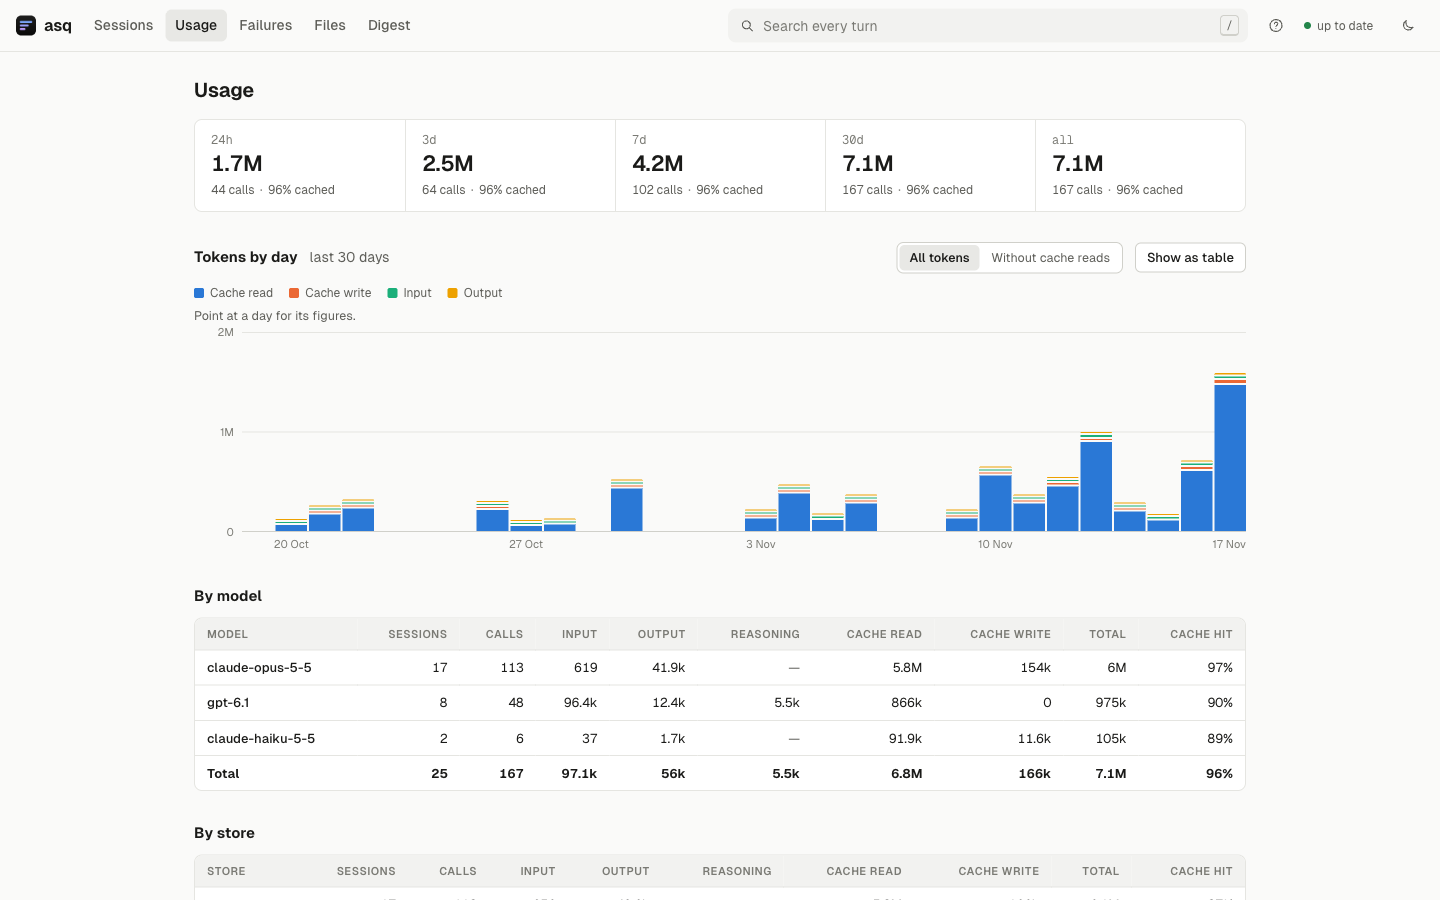
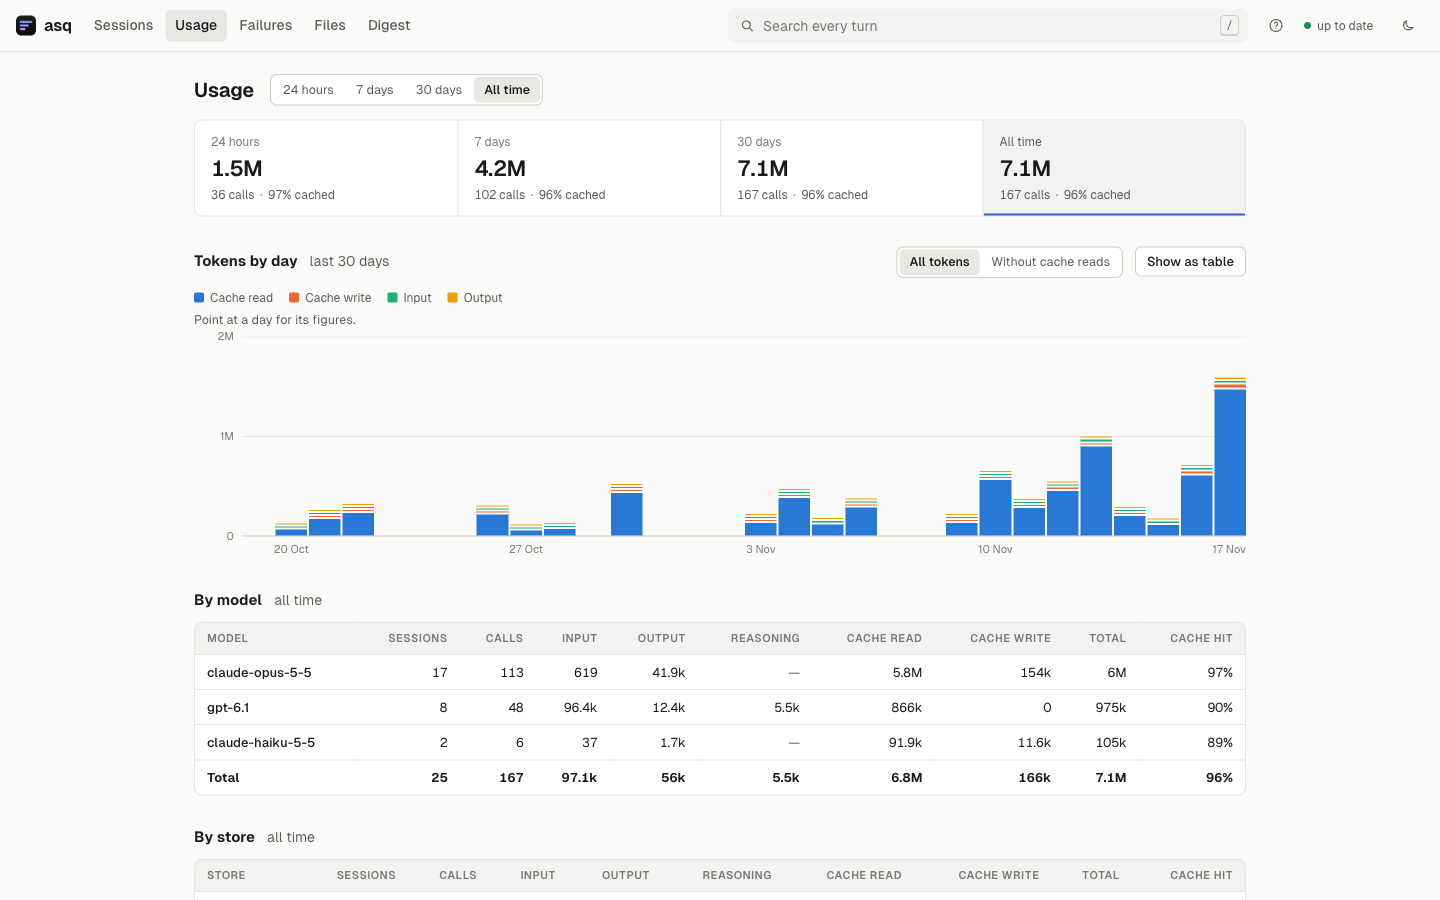
web: one set of time windows, the same in every view
Each view had a list of its own. Sessions offered All time, Today, 7
days and 30 days — Today a calendar day where everything else rolls;
Failures, Files and Digest 24 hours, 7 days and 30 days, with no all
time; Usage showed its windows by their keys (24h, 3d …) beside a chart
of the last 30 days, over tables that covered all time and did not say
so.

web/js/windows.js is the one list: 24 hours, 7 days, 30 days, All time,
in that order and those words, rolling. Every view offers all four.
Usage takes the window for its tables as the other reports do, names it
beside each, marks its card, and labels the cards in words; its chart
stays the last 30 days. A window empty of anything no longer suggests a
longer one when there is none.

The screenshots are retaken.

diff --git a/web/js/views/usage.js b/web/js/views/usage.js
@@ -1,28 +1,35 @@
-// What the model calls consumed: rolling windows, the last thirty days, and where it went.
+// What the model calls consumed: rolling windows, the last thirty days, and where it went
+// in the window chosen.
 
-import { h, mark, skeleton, errorBox, stale } from '../dom.js';
+import { h, mark, skeleton, errorBox, stale, choices } from '../dom.js';
 import { api, qs, last } from '../api.js';
 import { coalesce } from '../live.js';
 import * as f from '../format.js';
+import { WINDOWS, windowOf, label, span } from '../windows.js';
 
 // Stacked bottom to top in this order; the colours are the chart palette's first four
 const PARTS = [['cacheRead', 'Cache read'], ['cacheWrite', 'Cache write'], ['input', 'Input'], ['output', 'Output']];
-const WINDOWS = { '24h': 'Last 24 hours', '3d': 'Last 3 days', '7d': 'Last 7 days', '30d': 'Last 30 days', all: 'All time' };
+// The window the breakdowns cover: all of it unless one is chosen
+const windowIn = (query) => windowOf(query, 'all');
 
 // first is what the view asks for when it opens, so that it can be asked for ahead.
-export const first = () => '/api/usage';
+export const first = (query) => '/api/usage' + qs({ since: windowIn(query) });
 
 export function mount(main, route, ctx) {
   document.title = 'Usage · asq';
+  const since = windowIn(route.query);
   // What it showed last time is shown at once; the fresh report replaces it when it comes
-  const state = { withCache: true, table: false, report: last(first()) };
+  const state = { withCache: true, table: false, report: last(first(route.query)) };
   const body = h('div', { class: 'page-body' }, state.report ? null : skeleton(6, 'line'));
   const note = stale();
-  main.append(h('div', { class: 'page' }, h('header', { class: 'page-head' }, h('h1', { tabIndex: -1 }, 'Usage')), note.el, body));
+  main.append(h('div', { class: 'page' },
+    h('header', { class: 'page-head' }, h('h1', { tabIndex: -1 }, 'Usage'),
+      choices('Window', WINDOWS.map(([k, name]) => ['/usage' + qs({ since: k === 'all' ? '' : k }), name, k === since]))),
+    note.el, body));
 
   async function load() {
     try {
-      const report = await api(first(), { signal: ctx.signal, keep: true });
+      const report = await api(first(route.query), { signal: ctx.signal, keep: true });
       note.say();
       if (report === state.report) return; // nothing changed: what is drawn stays as it is, under the pointer
       state.report = report;
@@ -38,15 +45,17 @@ export function mount(main, route, ctx) {
   function render() {
     const r = state.report;
     body.replaceChildren(
-      h('dl', { class: 'windows' }, r.windows.map((w) => h('div', { class: 'window' },
-        h('dt', null, w.key, h('span', { class: 'sr' }, ' — ' + WINDOWS[w.key])),
+      // Every window at once, whichever is chosen: what each consumed, the chosen one marked
+      // as the one the tables below add up to
+      h('dl', { class: 'windows' }, r.windows.map((w) => h('div', { class: w.key === since ? 'window on' : 'window', 'aria-current': w.key === since ? 'true' : null },
+        h('dt', null, label(w.key)),
         h('dd', { class: 'big', title: f.num(w.total) + ' tokens' }, f.tokens(w.total)),
         h('dd', { class: 'dots dim' }, h('span', { title: f.num(w.calls) + ' model calls' }, f.plural(w.calls, 'call')),
           w.total > 0 && h('span', null, f.pct(w.cacheHit) + ' cached'))))),
       chart(r.byDay),
-      section('By model', table(r.byModel, r.total, 'Model', (k) => k || '(not recorded)')),
-      section('By store', table(r.bySource, r.total, 'Store', (k) => h('span', { class: 'store' }, mark(k), k))),
-      section('By project', table(r.byProject, r.total, 'Project', (k) => (k ? h('a', { href: '/' + qs({ project: k }), title: k }, f.shortPath(k)) : '(no directory)'))),
+      section('By model', span(since), table(r.byModel, r.total, 'Model', (k) => k || '(not recorded)')),
+      section('By store', span(since), table(r.bySource, r.total, 'Store', (k) => h('span', { class: 'store' }, mark(k), k))),
+      section('By project', span(since), table(r.byProject, r.total, 'Project', (k) => (k ? h('a', { href: '/' + qs({ project: k }), title: k }, f.shortPath(k)) : '(no directory)'))),
     );
   }
 
@@ -73,7 +82,7 @@ export function mount(main, route, ctx) {
     const mode = (withCache, label) => h('button', { type: 'button', class: 'seg-btn', 'aria-pressed': String(state.withCache === withCache), onclick() { state.withCache = withCache; render(); } }, label);
     const tableBtn = h('button', { type: 'button', class: 'btn', 'aria-pressed': String(state.table), onclick() { state.table = !state.table; render(); } }, state.table ? 'Hide table' : 'Show as table');
     return h('section', { class: 'chart' },
-      h('header', { class: 'section-head' }, h('h2', null, 'Tokens by day'), h('span', { class: 'dim' }, 'last 30 days'),
+      h('header', { class: 'section-head' }, h('h2', null, 'Tokens by day'), h('span', { class: 'dim' }, span('30d')),
         h('div', { class: 'seg-group', role: 'group', 'aria-label': 'What the bars count' }, mode(true, 'All tokens'), mode(false, 'Without cache reads')), tableBtn),
       h('ul', { class: 'legend' }, parts.map(([k, label]) => h('li', null, h('span', { class: 'swatch', dataset: { part: k } }), label))),
       readout,
@@ -111,7 +120,7 @@ function niceMax(v) {
   return [1, 2, 2.5, 5, 10].map((m) => m * p).find((x) => x >= v);
 }
 
-const section = (title, content) => h('section', null, h('header', { class: 'section-head' }, h('h2', null, title)), content);
+const section = (title, when, content) => h('section', null, h('header', { class: 'section-head' }, h('h2', null, title), h('span', { class: 'dim' }, when)), content);
 
 function table(rows, total, keyLabel, keyCell) {
   const n = (v) => h('td', { class: 'n', title: f.num(v) }, f.tokens(v));

diff --git a/web/js/views/files.js b/web/js/views/files.js
@@ -6,11 +6,11 @@ import { api, qs, sessionHref, isAbort, last } from '../api.js';
 import { coalesce } from '../live.js';
 import { go } from '../router.js';
 import * as f from '../format.js';
+import { WINDOWS, windowOf as windowIn, within, longer } from '../windows.js';
 
-const WINDOWS = [['24h', '24 hours'], ['7d', '7 days'], ['30d', '30 days']];
 const PAGE = 50;
 
-const windowOf = (query) => (WINDOWS.some(([k]) => k === query.get('since')) ? query.get('since') : '7d');
+const windowOf = (query) => windowIn(query, '7d');
 const readToo = (query) => query.get('read') === '1';
 const pageAt = (query, offset) =>
   '/api/files' + qs({ since: windowOf(query), path: query.get('path') || '', changed: !readToo(query), limit: PAGE, offset });
@@ -45,7 +45,6 @@ export function mount(main, route, ctx) {
   const more = h('div', { class: 'more-row' });
   const body = h('div', { class: 'page-body' }, skeleton(6, 'row'));
   const note = stale();
-  const windowName = WINDOWS.find(([k]) => k === since)[1];
   const input = h('input', { type: 'search', name: 'path', value: path, placeholder: 'part of a path: auth.go, src/api/', 'aria-label': 'Files whose path contains', autocomplete: 'off', spellcheck: false });
   const form = h('form', { class: 'file-filter', role: 'search' }, input);
   form.addEventListener('submit', (e) => {
@@ -54,7 +53,7 @@ export function mount(main, route, ctx) {
   });
   main.append(h('div', { class: 'page' },
     h('header', { class: 'page-head' }, h('h1', { tabIndex: -1 }, 'Files'),
-      choices('Window', WINDOWS.map(([k, label]) => [href({ since: k }), label, k === since]))),
+      choices('Window', WINDOWS.map(([k, name]) => [href({ since: k }), name, k === since]))),
     form,
     h('nav', { class: 'chips', 'aria-label': 'Which turns' },
       h('a', { class: 'chip', href: href({ read: false }), 'aria-current': read ? null : 'true' }, 'Changed'),
@@ -68,9 +67,9 @@ export function mount(main, route, ctx) {
     v.end = r.files.length < PAGE;
     // A row is a file and a turn that touched it, so a file two turns changed is counted
     // twice, as the digest counts files changed
-    summary.textContent = `${f.plural(r.total, 'file')}${path ? ` whose path contains “${path}”` : ''} ${read ? 'read or changed' : 'changed'} in the last ${windowName}.`;
+    summary.textContent = `${f.plural(r.total, 'file')}${path ? ` whose path contains “${path}”` : ''} ${read ? 'read or changed' : 'changed'}${within(since)}.`;
     list.replaceChildren(...v.items.map(row));
-    if (!v.items.length) list.replaceChildren(h('li', null, empty(path ? `No file whose path contains “${path}” in the last ${windowName}.` : `No files ${read ? 'read or changed' : 'changed'} in the last ${windowName}.`, 'Try a longer window.')));
+    if (!v.items.length) list.replaceChildren(h('li', null, empty(path ? `No file whose path contains “${path}”${within(since)}.` : `No files ${read ? 'read or changed' : 'changed'}${within(since)}.`, longer(since))));
     if (!body.contains(list)) body.replaceChildren(list, more);
     more.replaceChildren(v.end ? '' : h('button', { type: 'button', class: 'btn', onclick: () => load(false) }, 'Load more'));
   }

diff --git a/web/js/views/failures.js b/web/js/views/failures.js
@@ -4,11 +4,11 @@ import { h, time, skeleton, errorBox, empty, choices, fill, stale } from '../dom
 import { api, qs, sessionHref, isAbort, last } from '../api.js';
 import { coalesce } from '../live.js';
 import * as f from '../format.js';
+import { WINDOWS, windowOf as windowIn, within, longer } from '../windows.js';
 
-const WINDOWS = [['24h', '24 hours'], ['7d', '7 days'], ['30d', '30 days']];
 const PAGE = 50;
 
-const windowOf = (query) => (WINDOWS.some(([k]) => k === query.get('since')) ? query.get('since') : '7d');
+const windowOf = (query) => windowIn(query, '7d');
 const pageAt = (query, offset) => '/api/failures' + qs({ since: windowOf(query), tool: query.get('tool') || '', limit: PAGE, offset });
 
 // first is what the view asks for when it opens, so that it can be asked for ahead.
@@ -26,10 +26,9 @@ export function mount(main, route, ctx) {
   const more = h('div', { class: 'more-row' });
   const body = h('div', { class: 'page-body' }, skeleton(6, 'row'));
   const note = stale();
-  const windowName = WINDOWS.find(([k]) => k === since)[1];
   main.append(h('div', { class: 'page' },
     h('header', { class: 'page-head' }, h('h1', { tabIndex: -1 }, 'Failures'),
-      choices('Window', WINDOWS.map(([k, label]) => [href({ since: k }), label, k === since]))),
+      choices('Window', WINDOWS.map(([k, name]) => [href({ since: k }), name, k === since]))),
     note.el, summary, chips, body));
 
   function show(r, reset) {
@@ -37,13 +36,13 @@ export function mount(main, route, ctx) {
     v.items = reset ? r.failures : v.items.concat(r.failures);
     v.total = r.total;
     v.end = r.failures.length < PAGE;
-    summary.textContent = `${f.plural(r.total, 'failed call')} in the last ${windowName}${tool ? ` of ${tool}` : ''}.`;
+    summary.textContent = `${f.plural(r.total, 'failed call')}${tool ? ` of ${tool}` : ''}${within(since)}.`;
     if (reset) fill(chips,
       h('a', { class: 'chip', href: href({ tool: '' }), 'aria-current': tool ? null : 'true' }, 'All tools'),
       r.byTool.map((t) => h('a', { class: 'chip', href: href({ tool: t.tool === tool ? '' : t.tool }), 'aria-current': t.tool === tool ? 'true' : null },
         h('span', { class: 'mono' }, t.tool), h('span', { class: 'n' }, f.num(t.count)))));
     list.replaceChildren(...v.items.map(row));
-    if (!v.items.length) list.replaceChildren(h('li', null, empty(`No failed tool calls in the last ${windowName}.`, tool ? 'Try all tools, or a longer window.' : 'Try a longer window.')));
+    if (!v.items.length) list.replaceChildren(h('li', null, empty(`No failed tool calls${tool ? ` of ${tool}` : ''}${within(since)}.`, tool ? (since === 'all' ? 'Try all tools.' : 'Try all tools, or a longer window.') : longer(since))));
     if (!body.contains(list)) body.replaceChildren(list, more);
     more.replaceChildren(v.end ? '' : h('button', { type: 'button', class: 'btn', onclick: () => load(false) }, 'Load more'));
   }

diff --git a/web/js/views/digest.js b/web/js/views/digest.js
@@ -4,11 +4,11 @@ import { h, mark, skeleton, errorBox, empty, choices, stale } from '../dom.js';
 import { api, qs, isAbort, last } from '../api.js';
 import { coalesce } from '../live.js';
 import * as f from '../format.js';
+import { WINDOWS, windowOf as windowIn, within, longer } from '../windows.js';
 
-const WINDOWS = [['24h', '24 hours'], ['7d', '7 days'], ['30d', '30 days']];
 const KINDS = ['code', 'test', 'docs', 'config'];
 
-const windowOf = (query) => (WINDOWS.some(([k]) => k === query.get('since')) ? query.get('since') : '7d');
+const windowOf = (query) => windowIn(query, '7d');
 
 // first is what the view asks for when it opens, so that it can be asked for ahead.
 export const first = (query) => '/api/digest' + qs({ since: windowOf(query) });
@@ -23,7 +23,7 @@ export function mount(main, route, ctx) {
   const note = stale();
   main.append(h('div', { class: 'page' },
     h('header', { class: 'page-head' }, h('h1', { tabIndex: -1 }, 'Digest'),
-      choices('Window', WINDOWS.map(([k, label]) => ['/digest' + qs({ since: k }), label, k === since]))),
+      choices('Window', WINDOWS.map(([k, name]) => ['/digest' + qs({ since: k }), name, k === since]))),
     note.el, summary, body));
 
   function show(r) {
@@ -39,7 +39,7 @@ export function mount(main, route, ctx) {
       h('span', null, `${f.plural(KINDS.reduce((n, k) => n + (t.changed?.[k] || 0), 0), 'file')} changed`)));
     body.replaceChildren(r.projects.length
       ? h('ol', { class: 'digest' }, r.projects.map(project))
-      : empty(`Nothing was asked in the last ${WINDOWS.find(([k]) => k === since)[1]}.`, 'Try a longer window.'));
+      : empty(`Nothing was asked${within(since)}.`, longer(since)));
   }
 
   async function load() {

diff --git a/web/js/views/sessions.js b/web/js/views/sessions.js
@@ -7,10 +7,12 @@ import { go, savedY } from '../router.js';
 import { health, coalesce, onStatus, status } from '../live.js';
 import { needles, highlight } from '../md.js';
 import * as f from '../format.js';
+import { WINDOWS } from '../windows.js';
 
 const PAGE = 50;
 const HITS = 20;
-const WHEN = [['', 'All time'], ['today', 'Today'], ['7d', '7 days'], ['30d', '30 days']];
+// The windows every view offers (see windows.js); all time is no filter at all
+const WHEN = WINDOWS.map(([k, name]) => [k === 'all' ? '' : k, name]);
 const TOP_PROJECTS = 8;
 
 // Each list as it was left, by its address. Coming back to one — by Back from a session,
@@ -93,7 +95,8 @@ export function mount(main, route, ctx) {
     projectsP ||= api('/api/projects').then((r) => r.projects).catch(() => { projectsP = null; return []; });
     const projects = await projectsP;
     const option = (key, value, label, extra) => {
-      const on = (q.get(key) || '') === value;
+      const now = q.get(key) || '';
+      const on = (key === 'since' && now === 'all' ? '' : now) === value; // since=all is all time too
       return h('li', null, h('a', { href: hrefWith(v.route, { [key]: on && value ? '' : value }), class: 'opt', 'aria-current': on ? 'true' : null, title: extra?.title }, label, extra?.n != null && h('span', { class: 'n' }, f.num(extra.n))));
     };
     const flag = (key, label) => {

diff --git a/web/js/windows.js b/web/js/windows.js
@@ -1,0 +1,22 @@
+// The windows of time every view offers, and how each is said: one list, so that one
+// view's "7 days" is every other's, in the same words and the same order. They roll —
+// the last 24 hours, not today — as a calendar window reads differently depending on
+// when it is asked. The key is what the API takes as since.
+
+export const WINDOWS = [['24h', '24 hours'], ['7d', '7 days'], ['30d', '30 days'], ['all', 'All time']];
+
+// windowOf is the window a query names, or fallback when it names none of these.
+export const windowOf = (query, fallback) => (WINDOWS.some(([k]) => k === query.get('since')) ? query.get('since') : fallback);
+
+// label is the window as a choice shows it: "7 days", "All time".
+export const label = (key) => WINDOWS.find(([k]) => k === key)?.[1] || key;
+
+// span is the window beside a heading: "last 7 days", "all time".
+export const span = (key) => (key === 'all' ? 'all time' : `last ${label(key)}`);
+
+// within ends a sentence about what happened in the window: "in the last 7 days", and for
+// all time nothing, as "12 files changed" says it already.
+export const within = (key) => (key === 'all' ? '' : ` in the last ${label(key)}`);
+
+// longer is what an empty window suggests: a longer one, while there is one.
+export const longer = (key) => (key === 'all' ? '' : 'Try a longer window.');

diff --git a/web/app.css b/web/app.css
@@ -396,10 +396,12 @@ kbd { padding: 0 5px; border: 1px solid var(--line-strong); border-bottom-width:
 .section-head h2 { font-size: 15px; font-weight: 650; }
 .section-head .seg-group { margin-left: auto; }
 .summary { margin-bottom: 12px; color: var(--muted); }
-.windows { display: grid; grid-template-columns: repeat(5, minmax(0, 1fr)); background: var(--surface); border: 1px solid var(--line); border-radius: 8px; }
+.windows { display: grid; grid-template-columns: repeat(4, minmax(0, 1fr)); background: var(--surface); border: 1px solid var(--line); border-radius: 8px; }
 .window { padding: 12px 16px; }
 .window + .window { border-left: 1px solid var(--line); }
-.window dt { color: var(--faint); font: 12px var(--mono); }
+.window dt { color: var(--faint); font-size: 12px; }
+.window.on { background: var(--sunk); box-shadow: inset 0 -2px 0 var(--accent); }
+.window.on dt { color: var(--muted); }
 .window .big { font-size: 22px; font-weight: 600; letter-spacing: -.01em; }
 .window .dots { font-size: 12px; }
 .legend { display: flex; flex-wrap: wrap; gap: 4px 16px; margin: 0 0 4px; padding: 0; list-style: none; color: var(--muted); font-size: 12px; }

diff --git a/web/js/dom.js b/web/js/dom.js
@@ -193,7 +193,7 @@ export function stale() {
 }
 
 export const empty = (title, ...hints) =>
-  h('div', { class: 'empty' }, h('p', { class: 'empty-title' }, title), hints.map((x) => h('p', null, x)));
+  h('div', { class: 'empty' }, h('p', { class: 'empty-title' }, title), hints.filter(Boolean).map((x) => h('p', null, x)));
 
 export const fact = (label, value, props) => h('div', { class: 'fact', ...props }, h('dt', null, label), h('dd', null, value));
 

diff --git a/docs/ui.md b/docs/ui.md
@@ -66,9 +66,15 @@ the button at the bottom takes you back to the newest turn, or turns following o
 
 ## Reports
 
-**Usage** — tokens over rolling windows, the last thirty days as stacked bars (cache reads,
-cache writes, input, output; *Without cache reads* rescales to what is left, since cache reads
-are usually most of it), then tables by model, store and project — with how much of the output
+Every view that reads a window of time offers the same ones, in the same words: **24 hours, 7
+days, 30 days, All time**. They roll — the last 24 hours, not today — so a window reads the same
+whenever it is asked. The sessions list and the usage tables show all time unless a window is
+chosen; failures, files and the digest, the last 7 days.
+
+**Usage** — tokens in each of those windows, with the one chosen marked; the last thirty days as
+stacked bars (cache reads, cache writes, input, output; *Without cache reads* rescales to what is
+left, since cache reads are usually most of it), whichever window is chosen; then tables by
+model, store and project over the chosen window, which each names — with how much of the output
 was reasoning, where the provider said, and the share of the prompt that came from cache. Every
 rounded figure carries its exact value on hover, and the chart can be read as a table. The
 reports are in tokens: a session's own cost, where its CLI recorded one, is on the session's
@@ -76,13 +82,13 @@ page and [is not summed](cli.md#measuring).
 
 ![Usage](screenshots/usage.png)
 
-**Failures** — the tool calls that failed in the last day, week or month, newest first: the
+**Failures** — the tool calls that failed in the window, newest first: the
 command, how it ended, the end of what it printed, and a link to the step. The chips narrow to
 one tool.
 
 ![Failures](screenshots/failures.png)
 
-**Files** — the turns that changed a file in the last day, week or month, newest first, each with
+**Files** — the turns that changed a file in the window, newest first, each with
 the ask that led to it and how the file stands now against what that turn left: *as this turn
 left it*, *written since*, *changed since*, *not written since*, *deleted* — judged on this
 machine, from the file itself ([how](api.md#reports)). The box narrows to paths that contain what
@@ -143,8 +149,8 @@ line away.
 A list is kept by its address. Back from a session returns to it whole and to where it was read,
 and the rows that changed meanwhile are folded in where they stand. The link in the bar and a
 filter taken off again show it at once from its top, and its first page then becomes what the
-server says now: what was kept below it may no longer match — *Today* is yesterday after
-midnight — or be gone. A search comes back whole on Back too, but is asked for afresh any other
+server says now: what was kept below it may no longer match — the last 24 hours have moved on —
+or be gone. A search comes back whole on Back too, but is asked for afresh any other
 way, since what it found is ranked rather than dated and cannot be brought up to date row by row.
 Pointing at a view's link asks for it before the click lands. Nothing of this outlives the page,
 and all of it is dropped when the sign-in is lost.
